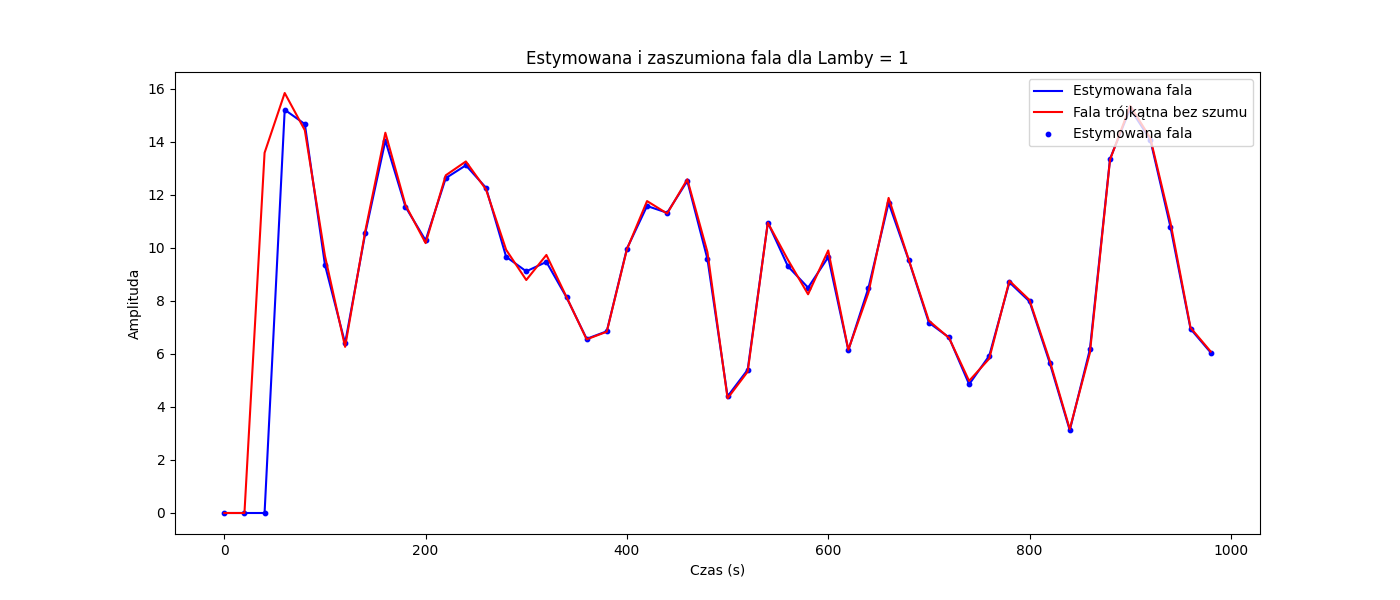
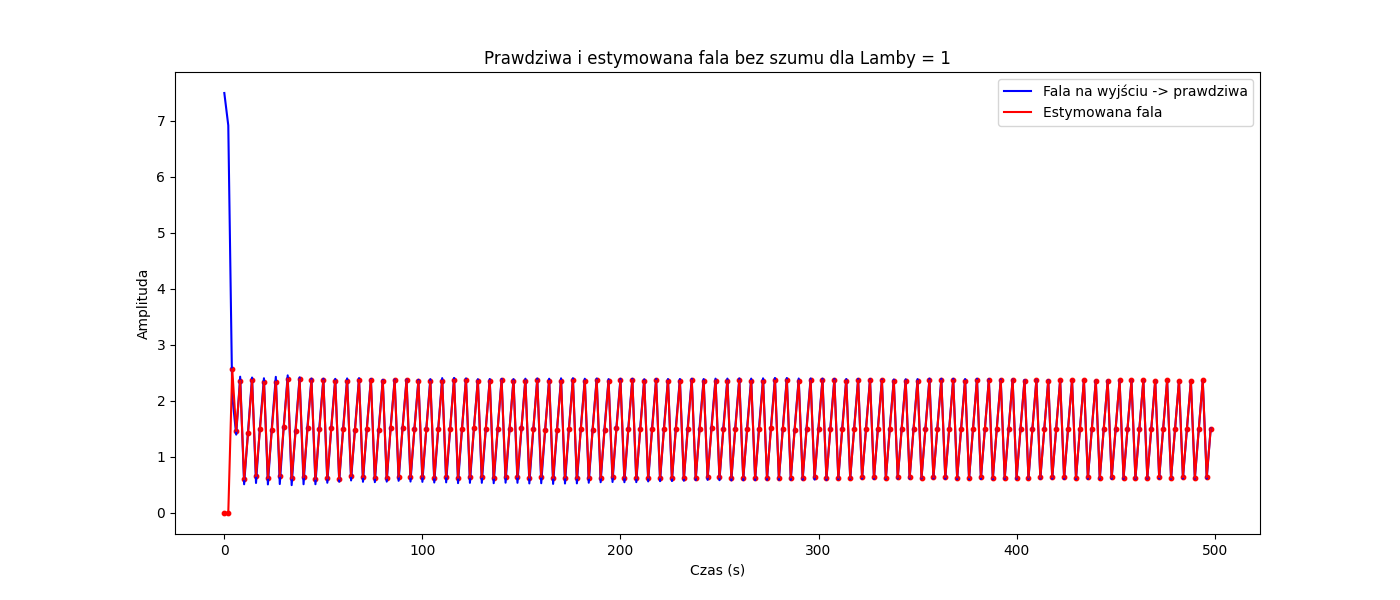
P2 simulation work

diff --git a/adaptacyjne/projekt2/wave.py b/adaptacyjne/projekt2/wave.py
@@ -6,87 +6,103 @@ from matplotlib import cm
 
 C = 0.7
 
-def preparing_true_data(u_k, t, b_true):
-    N = len(t)
-    V_true = np.zeros(N)
-    y_true = np.zeros(N)
-    noise = np.zeros(N)
-    for k in range(2, N):
-        noise[k] = C *(random.random() + random.random() - 1)
-        V_true[k] =  (b_true[0]*u_k[k] + b_true[1]*u_k[k-1] + b_true[2]*u_k[k-2])
-        y_true[k] = V_true[k] + noise[k]
-    return y_true, V_true, noise
+# def preparing_true_data(u_k, t, b_true):
+#     N = len(t)
+#     V_true = np.zeros(N)
+#     y_true = np.zeros(N)
+#     noise = np.zeros(N)
+#     for k in range(2, N):
+#         noise[k] = C *(random.random() + random.random() - 1)
+#         V_true[k] =  (b_true[0]*u_k[k] + b_true[1]*u_k[k-1] + b_true[2]*u_k[k-2])
+#         y_true[k] = V_true[k] + noise[k]
+#     return y_true, V_true, noise
 
-def simulation(u_k, t,  b_true, Lambda):
-    N = len(t)
-    y_k, V_true, noise = preparing_true_data(u_k, t, b_true)
-    
+def simulation(N, b_true, Lambda):    
     P_k = np.array([[100, 0, 0],
                     [0, 100, 0],
                     [0, 0, 100]])
 
-    b_est0 = np.zeros(N)
-    b_est1 = np.zeros(N)
-    b_est2 = np.zeros(N)
     b_estimated = np.zeros((3,N))
-    # b_estimated = np.array([[b_est0[0]],
-    #                         [b_est1[0]],
-    #                         [b_est2[0]]])
     
-    V_k = np.zeros(N)
-    y_k_estimated = np.zeros(N)
-    y_k_estimated = y_k
-    MSE_sum = 0
-    MSE_sum2 = 0
-    for k in range(3, N):
-        Phi = np.array([[u_k[k]],
-                        [u_k[k-1]],
-                        [u_k[k-2]]])
+    V_estimated = np.zeros(N)
+    y_estimated = np.zeros(N)
+
+    V_true = np.zeros(N) # prawdziwe wyjście z obiektu bez zakłócenia
+    y_true = np.zeros(N) # prawdziwe wyjście z zakłóceniem
+
+    # Tworzenie zakłócenia
+    noise = [C *(random.random() + random.random() - 1) for _ in range(N)]
+    # Tworzenie danych przed pętlą 
+    # Dla [0]
+    u_calculated = np.zeros(N)
+    u_calculated[0] = (np.sin(2*np.pi/3 * 0) + 1.5)
+    Phi = np.array([[u_calculated[0]],
+                    [0],
+                    [0]])
+    V_true[0] = b_true[0]*u_calculated[0]
+    y_true[0] = V_true[0]  + noise[0]
+    new_P_k = 1/Lambda * (P_k - (np.dot(np.dot(np.dot(P_k,Phi),Phi.T),P_k))/ (Lambda + np.dot(np.dot(Phi.T, P_k),Phi)))
+    P_k = new_P_k
+
+    B_estimated = [ [0],
+                    [0],
+                    [0]]
+    b_estimated[:,0] = (B_estimated + (y_true[0] - np.dot(Phi.T, B_estimated)) * np.dot(P_k,Phi)).reshape((3,)) 
+
+    # DLa [1]
+    u_calculated[1] = (np.sin(2*np.pi/3 * 1) + 1.5)/b_estimated[0, 0]
+    Phi = np.array([[u_calculated[1]],
+                    [u_calculated[0]],
+                    [0]])
+
+    V_true[1] = b_true[0]*u_calculated[1] + b_true[1]*u_calculated[0] 
+    y_true[1] =  V_true[1] + noise[1]
+    new_P_k = 1/Lambda * (P_k - (np.dot(np.dot(np.dot(P_k,Phi),Phi.T),P_k))/ (Lambda + np.dot(np.dot(Phi.T, P_k),Phi)))
+    P_k = new_P_k
+
+    B_estimated = [ [b_estimated[0, 0]],
+                    [b_estimated[1, 0]],
+                    [b_estimated[2, 0]]]
+    b_estimated[:,1] = (B_estimated + (y_true[1] - np.dot(Phi.T, B_estimated)) * np.dot(P_k,Phi)).reshape((3,)) 
+
+    for k in range(2, N):
+        u_calculated[k] = ((np.sin(2*np.pi/3 * k) + 1.5) -  (b_estimated[1, k-1]* u_calculated[k-1] + b_estimated[2, k-1]*u_calculated[k-2]))/b_estimated[0, k-1]
+        Phi = np.array([[u_calculated[k]],
+                        [u_calculated[k-1]],
+                        [u_calculated[k-2]]])
+
+        # Wyliczamy nowe wyjście na podstawie oczekiwanego wejścia?? z b_true
+        V_true[k] =  (b_true[0]*u_calculated[k] + b_true[1]*u_calculated[k-1] + b_true[2]*u_calculated[k-2])
+        y_true[k] = V_true[k] + noise[k]
 
         # Calculate P_k - macierz kowariancji P_k to P(k-1) a new_P_k to P(k)
         new_P_k = 1/Lambda * (P_k - (np.dot(np.dot(np.dot(P_k,Phi),Phi.T),P_k))/ (Lambda + np.dot(np.dot(Phi.T, P_k),Phi)))
         P_k = new_P_k
 
-        # Wyliczamy ze starym b nowe wyjście
-        
         # Calculate b_estimated 
         B_estimated = [[b_estimated[0, k-1]],
                        [b_estimated[1, k-1]],
                        [b_estimated[2, k-1]]]
-        b_estimated[:,k] = (B_estimated + (y_k[k] - np.dot(Phi.T, B_estimated)) * np.dot(P_k,Phi)).reshape((3,)) 
+        b_estimated[:,k] = (B_estimated + (y_true[k] - np.dot(Phi.T, B_estimated)) * np.dot(P_k,Phi)).reshape((3,)) 
+            
+        V_estimated[k] =  (b_estimated[0, k]*u_calculated[k] + b_estimated[1, k]*u_calculated[k-1] + b_estimated[2, k]*u_calculated[k-2])
+        y_estimated[k] = V_estimated[k] + noise[k]
 
-        V_k[k] =  (b_estimated[0][k]*u_k[k] + b_estimated[1][k]*u_k[k-1] + b_estimated[2][k]*u_k[k-2])
-        y_k_estimated[k] = V_k[k] + noise[k]
-        b_est0[k] = b_estimated[0][k]
-        b_est1[k] = b_estimated[1][k]
-        b_est2[k] = b_estimated[2][k]
-        # V_k[k] =  (b_est0[k]*u_k[k] + b_est1[k]*u_k[k-1] + b_est2[k]*u_k[k-2])
-        # y_k_estimated[k] = V_k[k] + noise[k]
-
-        MSE_sum += (np.abs(V_k[k] - V_true[k]))**2
-        MSE_sum2 += (np.abs(y_k_estimated[k] - y_k[k]))**2
-
-
-    MSE = MSE_sum/(N-2)
-    MSE2 = MSE_sum2/(N-2)
-    print(f"MSE dla Lambdy = {Lambda} : {MSE}")
-    print(f"MSE2 dla Lambdy = {Lambda} : {MSE2}")
-    return V_k, V_true, y_k_estimated, y_k, b_est0, b_est1, b_est2
+    print(f"B = {b_estimated[:,49]}")    
+    return V_true, V_estimated, y_true, y_estimated, b_estimated
     
 
-def image(t, u_k, b_true, Lambda):
-    V_k, V_true, estimated_with_noise, y_k, b_est0, b_est1, b_est2 = simulation(u_k, t,  b_true, Lambda)
+def image(t, b_true, Lambda):
+    V_true, V_estimated, y_true, y_estimated, b_estimated = simulation(len(t), b_true, Lambda)
     fig = plt.figure(figsize=(14, 6))
     ax = fig.add_subplot(111)
-    ax.plot(t, V_k, c='b', label="Estymowana fala") 
-    ax.plot(t, V_true, c='r', label="Fala trójkątna bez szumu")
-    ax.scatter(t, V_k, c='b', marker="o", s=10, label="Estymowana fala") 
-    # ax.scatter(t, V_true, c='r', marker="o", s=10, label="Fala trójkątna bez szumu")
-    # ax.scatter(t, estimated_with_noise, c='r', marker="o", s=10, label="Estymowana fala + szum")  
-    # ax.scatter(t, y_k, c='g', marker="o", s=10, label="Zaszumiona fala trójkątna")
-    # ax.plot(t, estimated_with_noise, c='r', label="Estymowana fala + szum")  
-    # ax.plot(t, y_k, c='g', label="Zaszumiona fala trójkątna")
-    ax.set_title(f'Estymowana i zaszumiona fala dla Lamby = {Lambda}')
+    ax.plot(t, V_true, c='b', label="Fala na wyjściu -> prawdziwa") 
+    ax.plot(t, V_estimated, c='r', label="Estymowana fala")
+    ax.scatter(t, V_estimated, c='r', marker="o", s=10) 
+    # ax.plot(t, y_true, c='g', label="Fala na wyjściu + szum -> prawdziwa")
+    # ax.plot(t, y_estimated, c='r', label="Estymowana fala + szum")  
+    # ax.scatter(t, y_estimated, c='r', marker="o", s=10, label="Estymowana fala + szum")  
+    ax.set_title(f'Prawdziwa i estymowana fala bez szumu dla Lamby = {Lambda}')
     ax.legend(loc='upper right')
     ax.set_xlabel('Czas (s)')
     ax.set_ylabel('Amplituda')
@@ -95,13 +111,13 @@ def image(t, u_k, b_true, Lambda):
     
     fig_est = plt.figure(figsize=(14, 6))
     ax_est = fig_est.add_subplot(111)
-    ax_est.scatter(t, b_est0, c='r', marker="o", s=10, label="Estymowane b0 od Lambdy")  
-    ax_est.plot(t, [b_true[0] for i in range(len(t))], c='black') 
-    ax_est.scatter(t, b_est1, c='b', marker="o", s=10, label="Estymowane b1 od Lambdy")
-    ax_est.plot(t, [b_true[1] for i in range(len(t))], c='black') 
-    ax_est.scatter(t, b_est2, c='g', marker="o", s=10, label="Estymowane b2 od Lambdy") 
-    ax_est.plot(t, [b_true[2] for i in range(len(t))], c='black') 
-    ax_est.set_title(f'Estymowana i zaszumiona fala dla Lamby = {Lambda}')
+    ax_est.scatter(t, b_estimated[0], c='r', marker="o", s=10, label="Estymowane b0 od Lambdy")  
+    ax_est.plot(t, [b_true[0] for _ in range(len(t))], c='black') 
+    ax_est.scatter(t, b_estimated[1], c='b', marker="o", s=10, label="Estymowane b1 od Lambdy")
+    ax_est.plot(t, [b_true[1] for _ in range(len(t))], c='black') 
+    ax_est.scatter(t, b_estimated[2], c='g', marker="o", s=10, label="Estymowane b2 od Lambdy") 
+    ax_est.plot(t, [b_true[2] for _ in range(len(t))], c='black') 
+    ax_est.set_title(f'Estymacja b^ dla Lambdy = {Lambda}')
     # ax_est.legend(loc='')
     ax_est.set_xlabel('Czas (s)')
     ax_est.set_ylabel('Amplituda')
@@ -117,21 +133,21 @@ def image(t, u_k, b_true, Lambda):
 # SZUKANE
 # b_true -> poprzez b_estimated
 # INNE
-# V_k -> sygnał po wyjściu z obiektu, którym mamy "sterować" 
+# V_estimated -> sygnał po wyjściu z obiektu, którym mamy "sterować" 
 def main():
-    duration = 1000.0  # Duration of the u_k(seconds)
-    N = 50
+    duration = 500.0  # Duration of the u_k(seconds)
+    N = 250
     t = np.linspace(0, duration, N, endpoint=False) # <class 'numpy.ndarray'>
     u_k = np.random.uniform(0, 3,  N)
     #u_k = [ random.random()-0.5 for _ in range(N)]
     # u_k = [1 for i in range(len(t))]
 
-    Lambda = [1]
-    b_0, b_1, b_2 = 2, 3, 1 #17.5, 10, 2.5
+    Lambda = [1, 0.9]
+    b_0, b_1, b_2 = 5, 3, 1 #17.5, 10, 2.5
     b_true = [b_0, b_1, b_2]
     
     for i in range(len(Lambda)):
-        image(t, u_k, b_true, Lambda[i])
+        image(t, b_true, Lambda[i])
 
     # image_MSE(t, u_k, b_true, Lambda)
     
